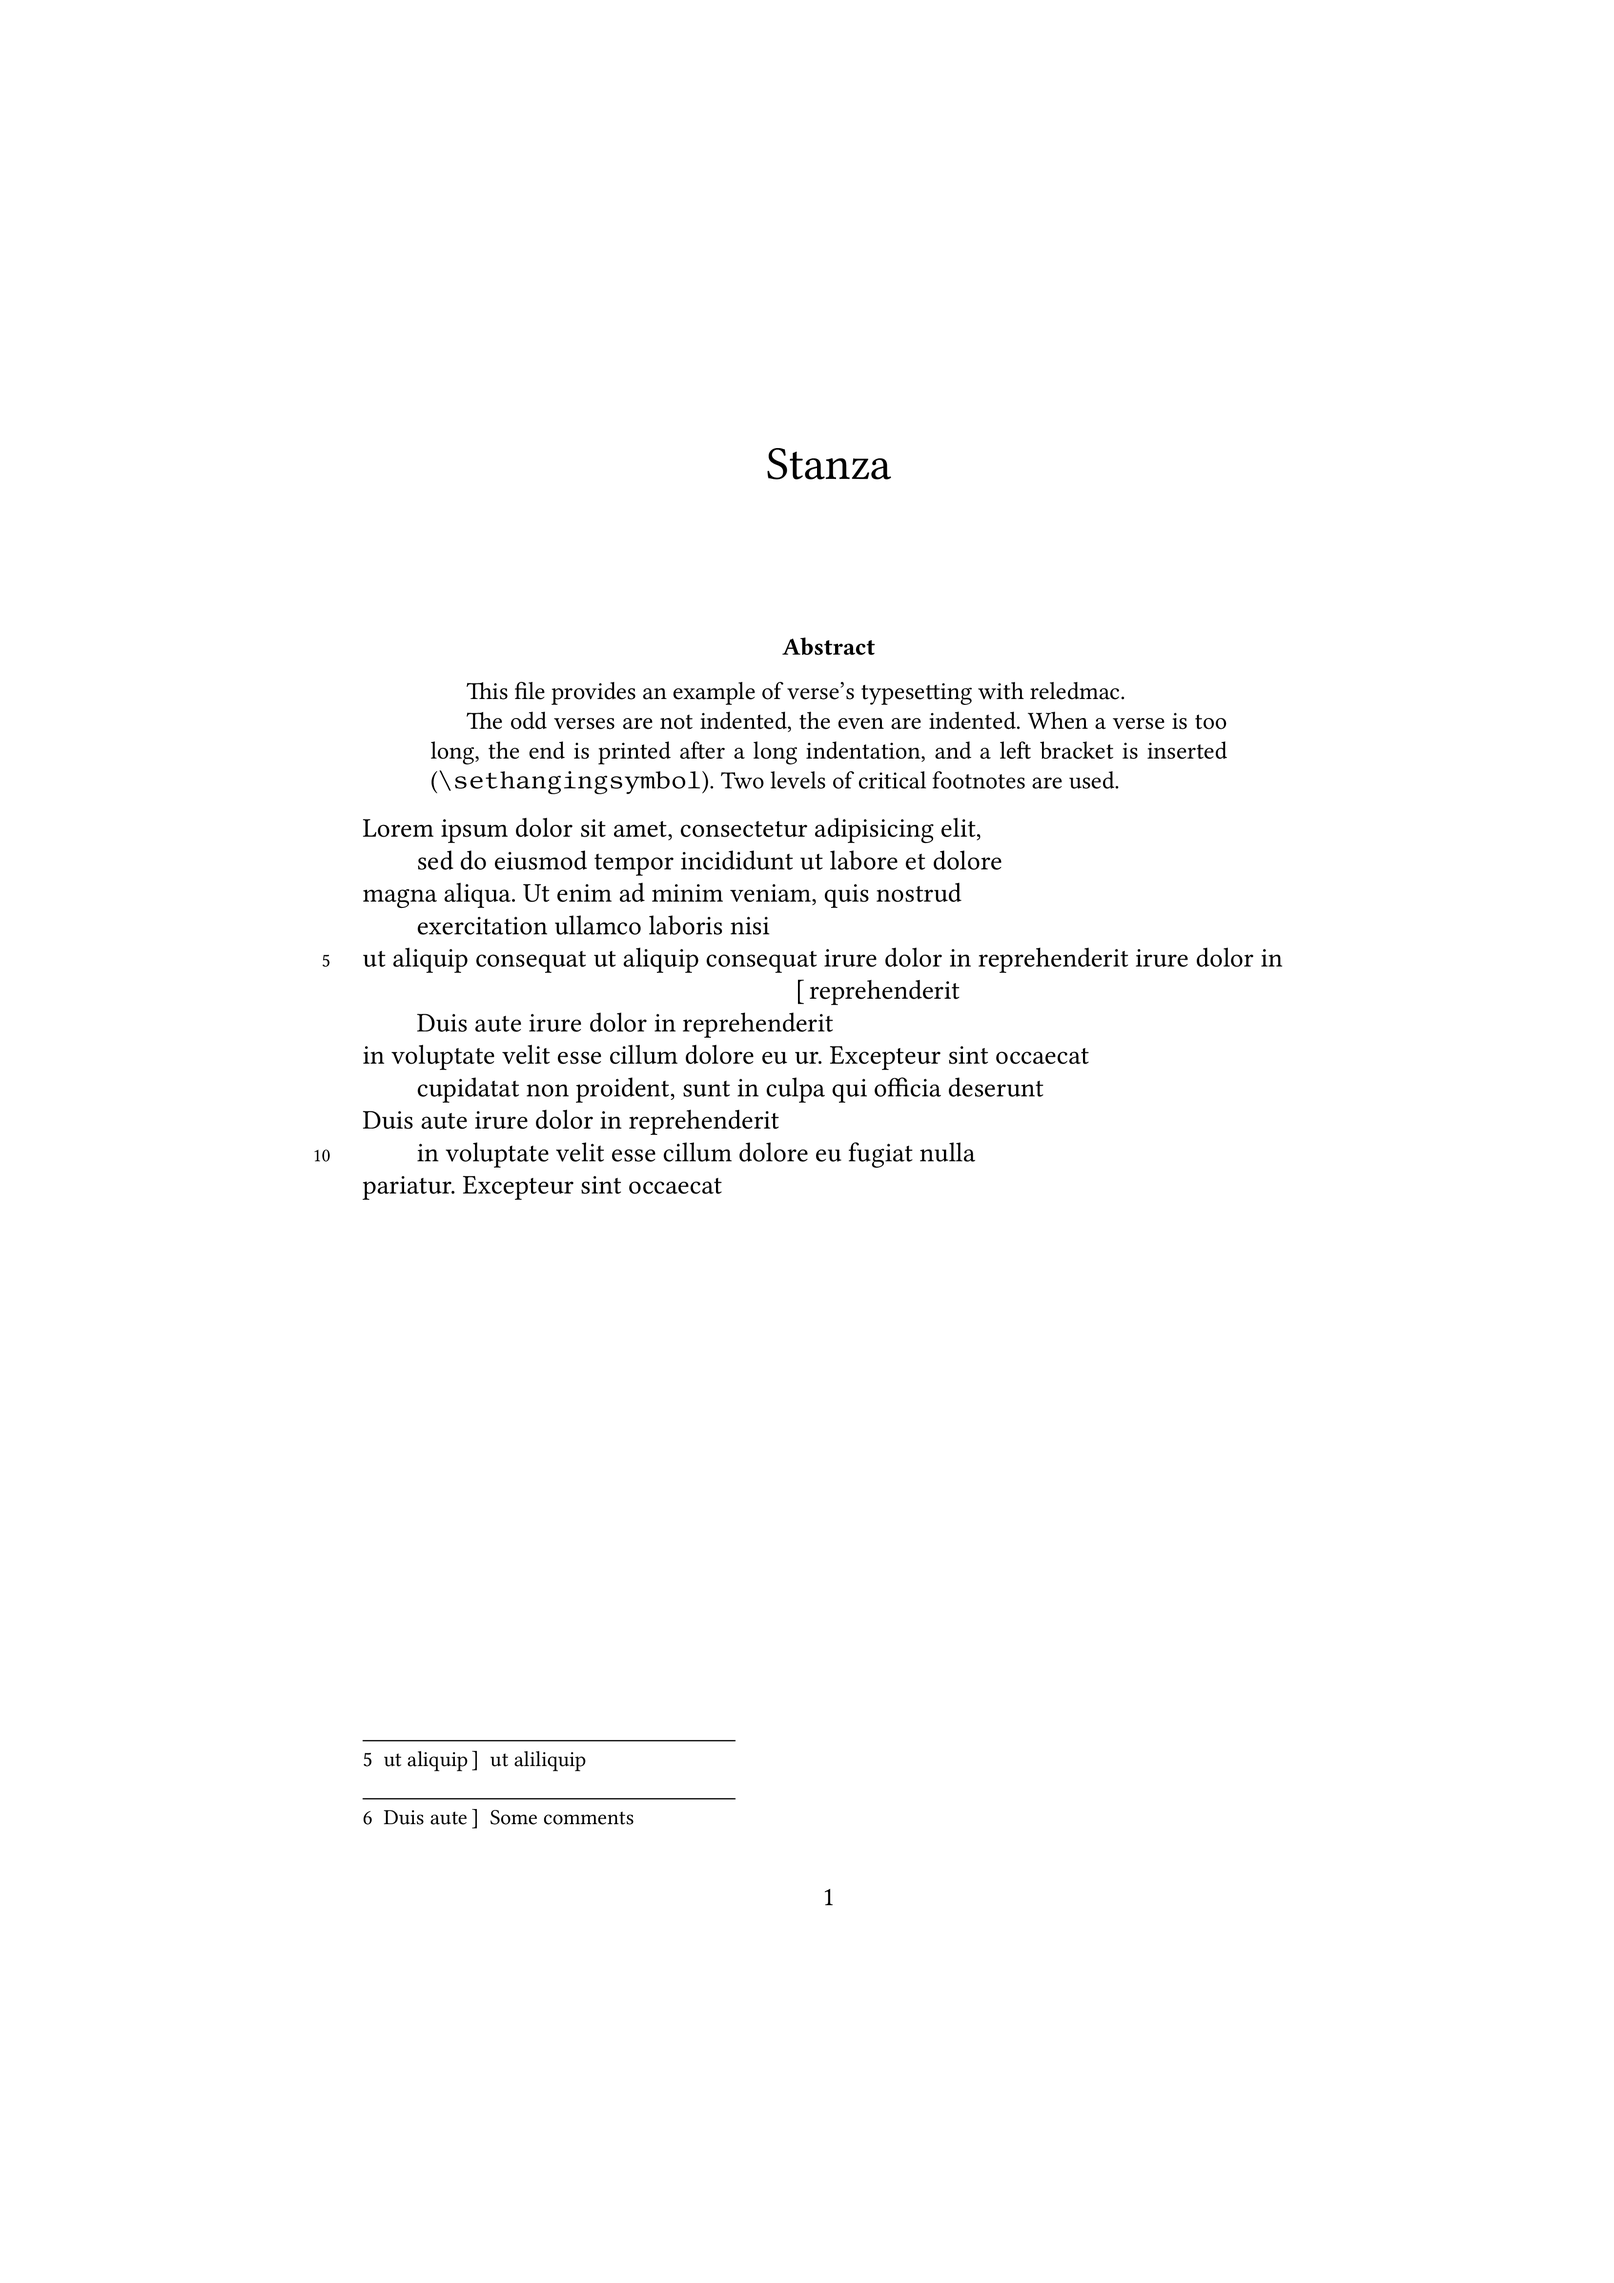
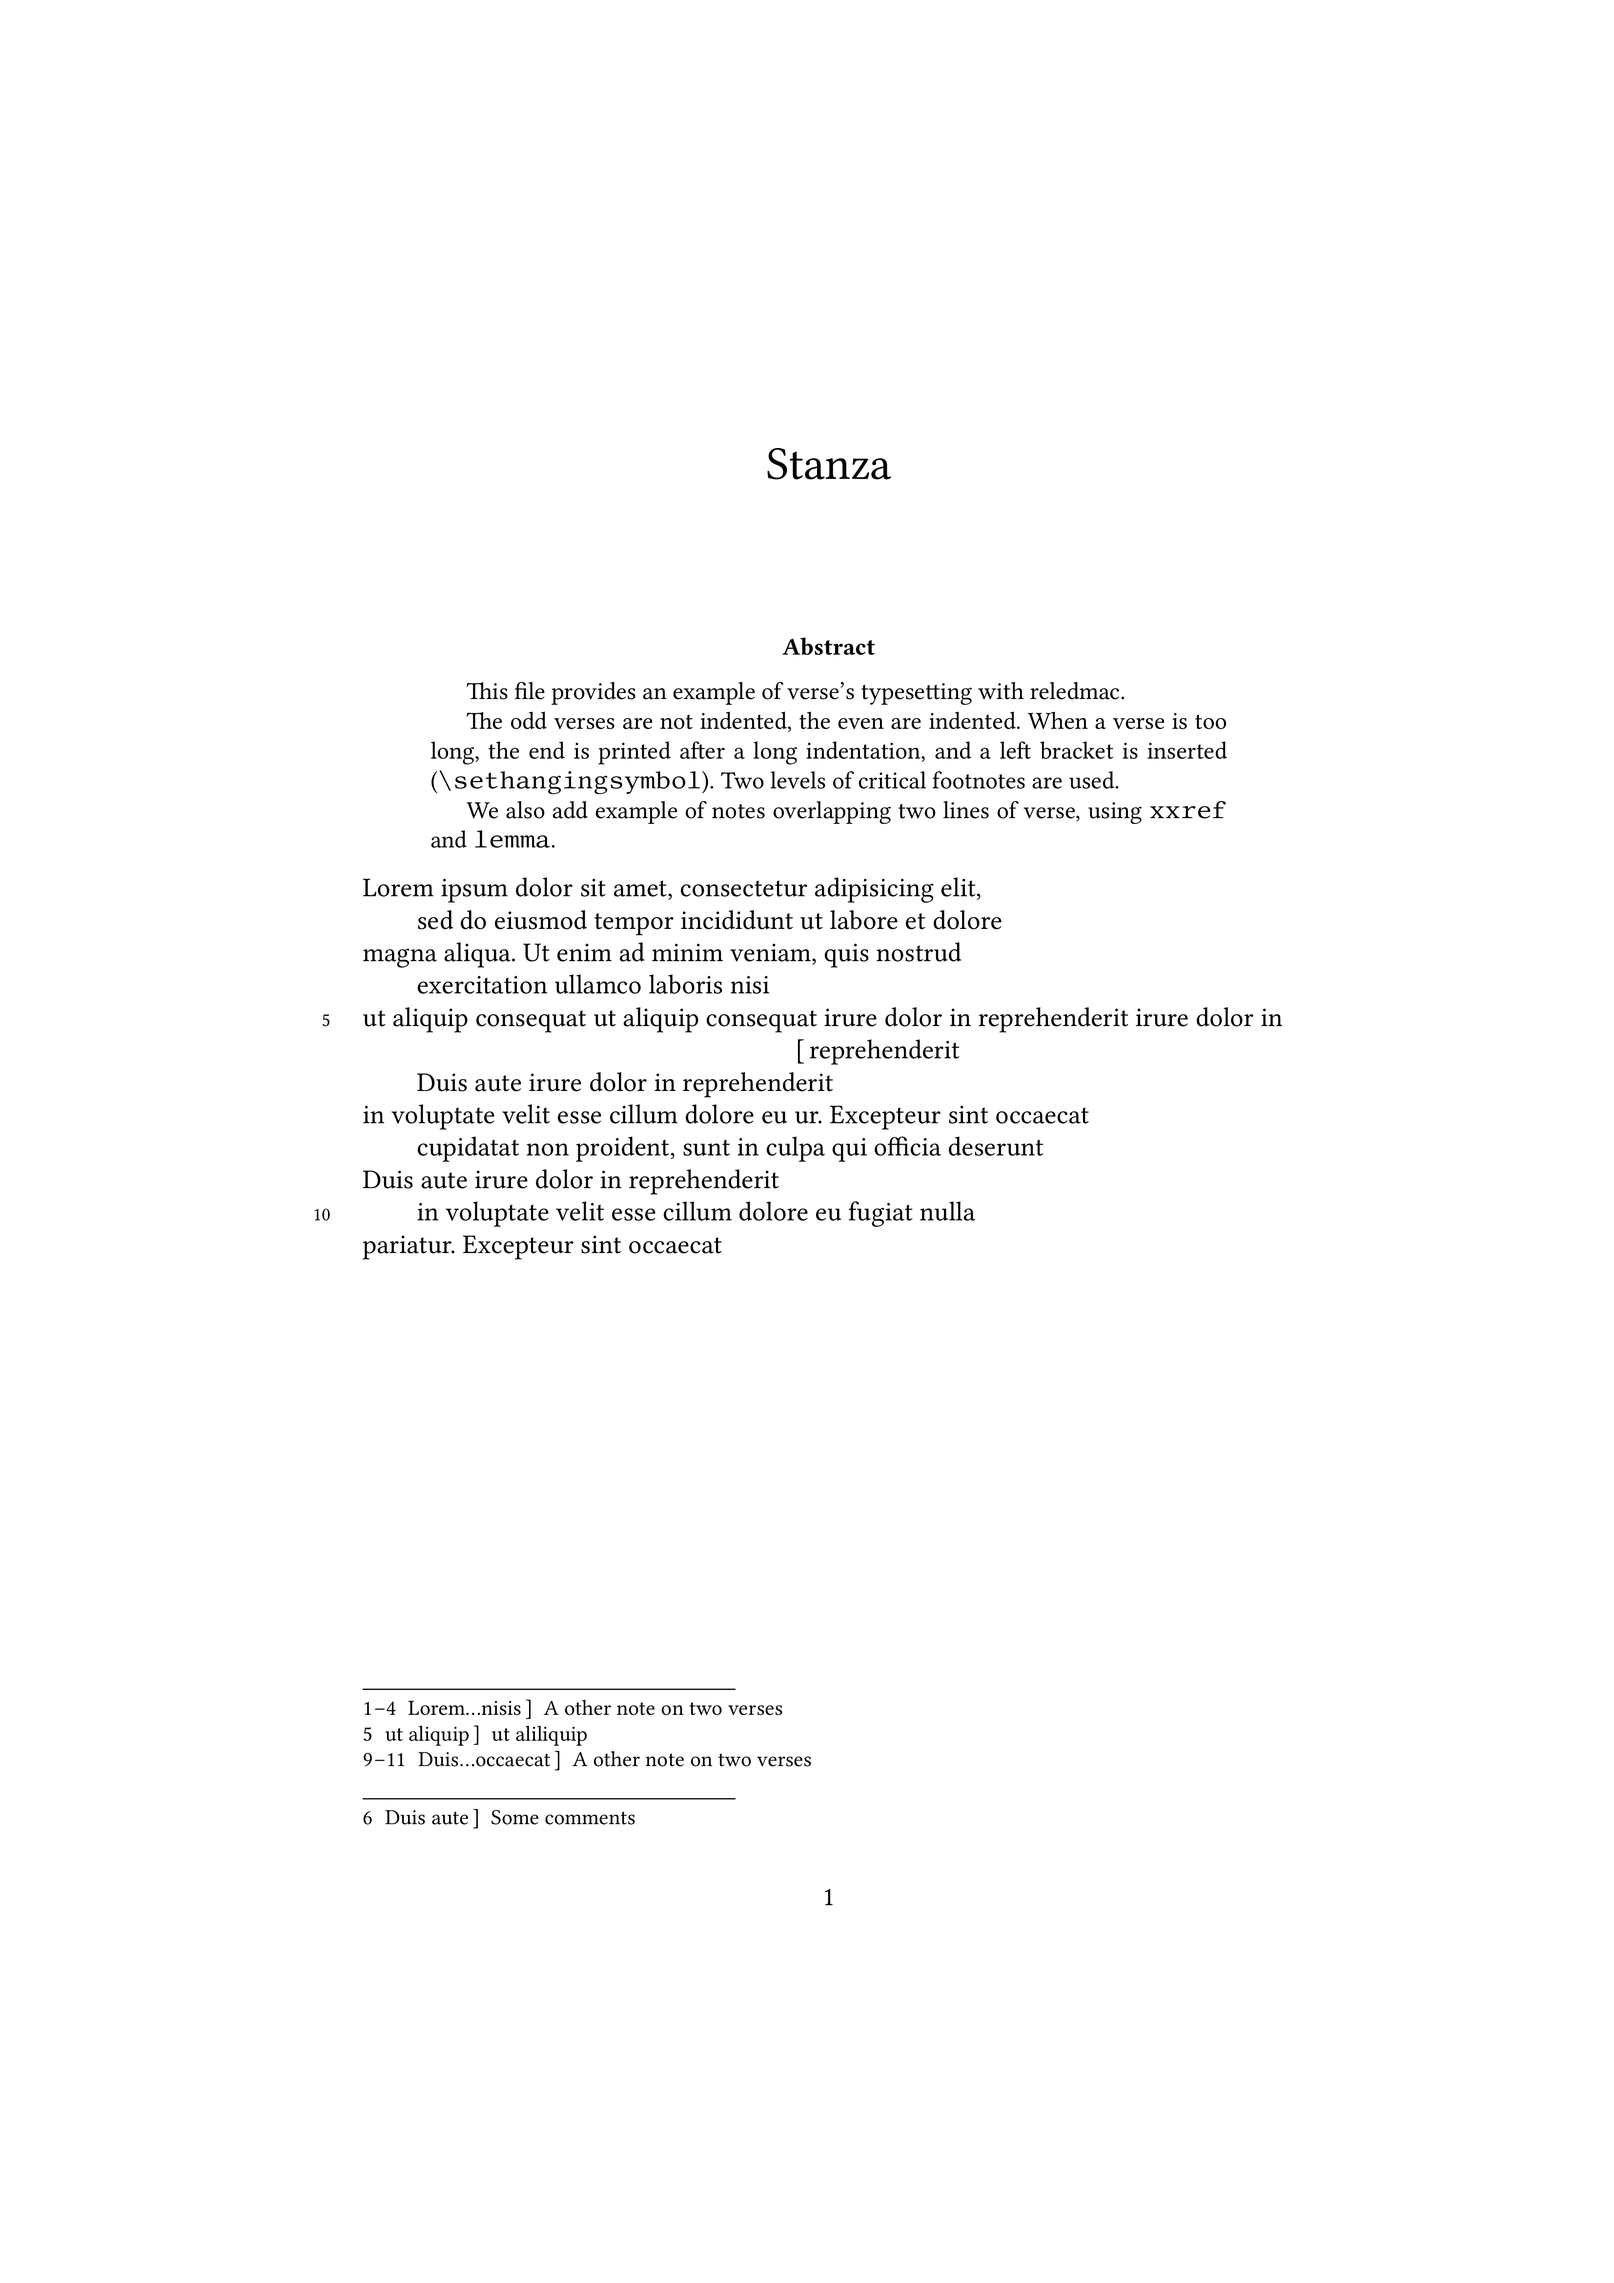
l'exemple pour les vers montre aussi une note sur plusieurs lignes

Changed region(s): [[0.218, 0.3434, 0.6852, 0.5619], [0.218, 0.7492, 0.436, 0.7804]]

diff --git a/examples/1-verses.tex b/examples/1-verses.tex
@@ -20,6 +20,8 @@ This file provides an example of verse's typesetting with reledmac.
 
 The odd verses are not indented, the even are indented. When a verse is too long, the end is printed after a long indentation, and a left bracket is inserted (\verb+\sethangingsymbol+).
 Two levels of critical footnotes are used.
+
+We also add example of notes overlapping two lines of verse, using \verb+xxref+ and \verb+lemma+.
 \end{abstract}
 \end{english}
 
@@ -27,17 +29,17 @@ Two levels of critical footnotes are used.
 \setcounter{stanzaindentsrepetition}{2}
 \setstanzaindents{8,0,1}
 \stanza
-Lorem ipsum dolor sit amet, consectetur adipisicing elit,&
+\edlabel{begin:1}\edtext{Lorem}{\lemma{Lorem\ldots nisis}\xxref{begin:1}{end:1}\Afootnote{A note on two verses}} ipsum dolor sit amet, consectetur adipisicing elit,&
 sed do eiusmod tempor incididunt ut labore et dolore&
 magna aliqua. Ut enim ad minim veniam, quis nostrud&
-exercitation ullamco laboris nisi&
+exercitation ullamco laboris nisi\edlabel{end:1}&
 \edtext{ut aliquip}{\Afootnote{ut aliliquip}} consequat ut aliquip consequat irure dolor in reprehenderit irure dolor in reprehenderit&
 \edtext{Duis aute}{\Bfootnote{Some comments}} irure dolor in reprehenderit&
 in voluptate velit esse cillum dolore eu ur. Excepteur sint occaecat&
 cupidatat non proident, sunt in culpa qui officia deserunt&
-Duis aute irure dolor in reprehenderit&
+\edlabel{begin:2}\edtext{Duis}{\xxref{begin:2}{end:2}\lemma{Duis\ldots occaecat}\Afootnote{A other note on two verses}} aute irure dolor in reprehenderit&
 in voluptate velit esse cillum dolore eu fugiat nulla&
-pariatur. Excepteur sint occaecat\&
+pariatur. Excepteur sint occaecat\edlabel{end:2}\&
 \endnumbering
 
 \end{document}
